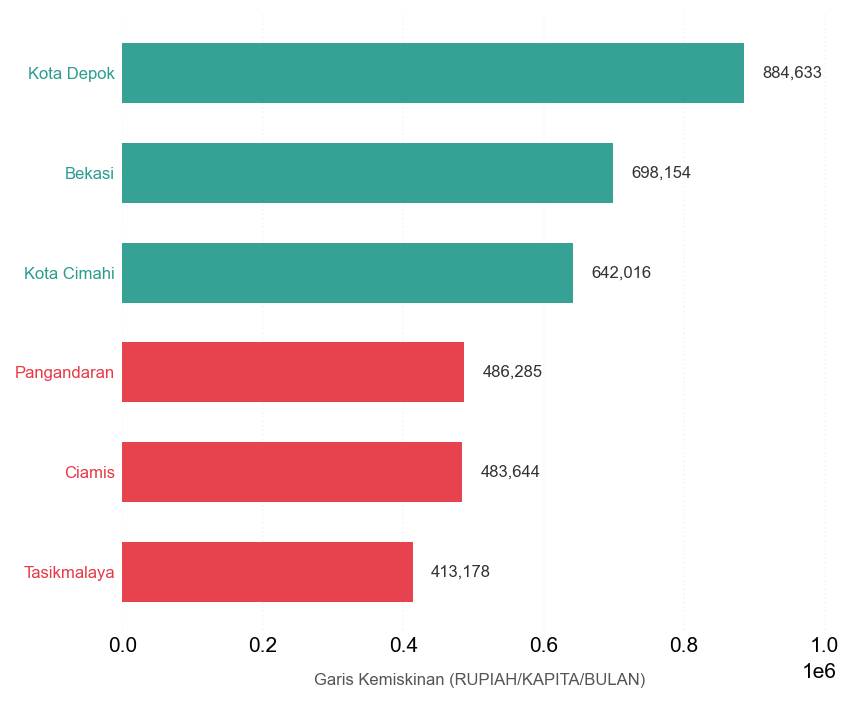
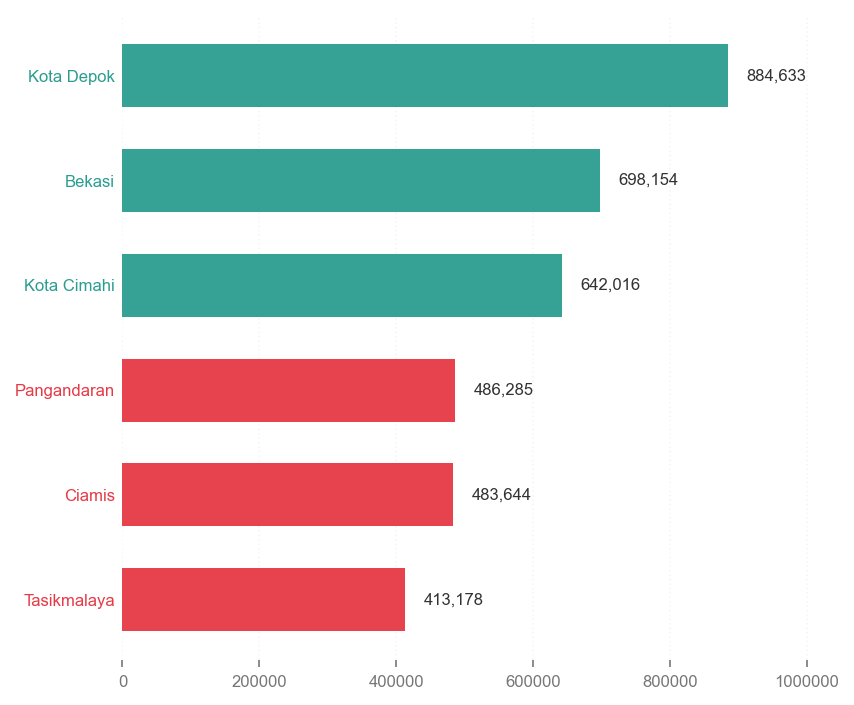
fix: maaf banyak ubah

diff --git a/docs/poster.html b/docs/poster.html
@@ -301,7 +301,6 @@
   <div style="display:flex; gap:20px; align-items:stretch;">
 
     <div style="flex:1; min-width:0; display:flex; flex-direction:column;">
-      <div style="text-align:center; font-size:9px; color:#222; font-family:Arial,sans-serif; margin-bottom:2px; font-weight:bold; visibility:hidden;">Garis Kemiskinan</div>
       <div style="display:flex; align-items:center; gap:4px; height:230px;">
         <div style="writing-mode:vertical-rl; transform:rotate(180deg); font-size:9px; color:#222; font-family:Arial,sans-serif; white-space:nowrap; flex-shrink:0; font-weight:bold;">Tingkat Kemiskinan (%)</div>
         <div style="flex:1; min-width:0; height:100%;">
@@ -312,10 +311,11 @@
     </div>
 
     <div style="flex:1; min-width:0; display:flex; flex-direction:column;">
-      <div style="text-align:center; font-size:9px; color:#222; font-family:Arial,sans-serif; margin-bottom:2px; font-weight:bold;">Garis Kemiskinan</div>
       <div style="display:flex; align-items:center; gap:4px; height:230px;">
         <div style="writing-mode:vertical-rl; transform:rotate(180deg); font-size:9px; color:#222; font-family:Arial,sans-serif; white-space:nowrap; flex-shrink:0; font-weight:bold;">Wilayah Anomali</div>
-        <div style="flex:1; min-width:0; height:100%;"><img src="output/g4_barchart.png" style="display:block; width:100%; height:100%; object-fit:contain;"></div>
+        <div style="flex:1; min-width:0; height:100%;">
+          <img src="output/g4_barchart.png" style="display:block; width:100%; height:100%; object-fit:contain;">
+        </div>
       </div>
       <div style="text-align:center; font-size:9px; color:#222; font-family:Arial,sans-serif; margin-top:2px; font-weight:bold;">Garis Kemiskinan (Rupiah/Kapita/Bulan)</div>
     </div>

diff --git a/src/build_main.py b/src/build_main.py
@@ -494,7 +494,8 @@ cells.append(code(
     "for lbl, region in zip(ax.get_yticklabels(), anomali['region']):\n"
     "    lbl.set_color(C_HIGH if region in ANOMALI_HIGH else C_LOW)\n\n"
     "ax.set_xlim(0, anomali['poverty_level'].max() * 1.15)\n\n"
-    "ax.tick_params(axis='x', length=0)\n"
+    "ax.xaxis.set_major_formatter(ticker.FormatStrFormatter('%.0f'))\n"
+    "ax.tick_params(axis='x', labelsize=8, colors='#777777')\n"
     "ax.tick_params(axis='y', length=0)\n"
     "ax.spines[['top', 'right', 'left', 'bottom']].set_visible(False)\n"
     "ax.grid(axis='x', linestyle=':', alpha=0.3, color='#DDDDDD', zorder=0)\n\n"
